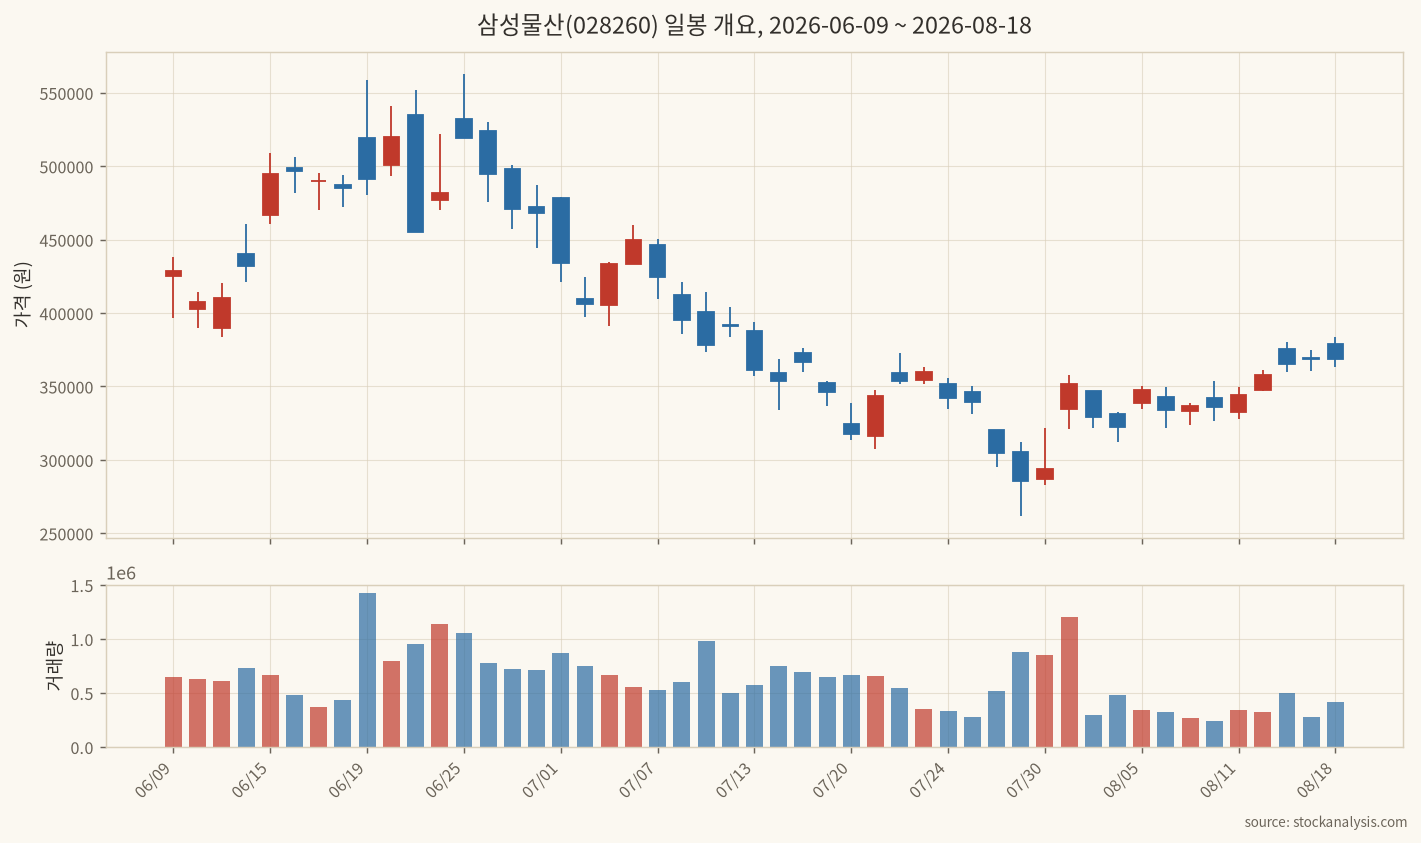
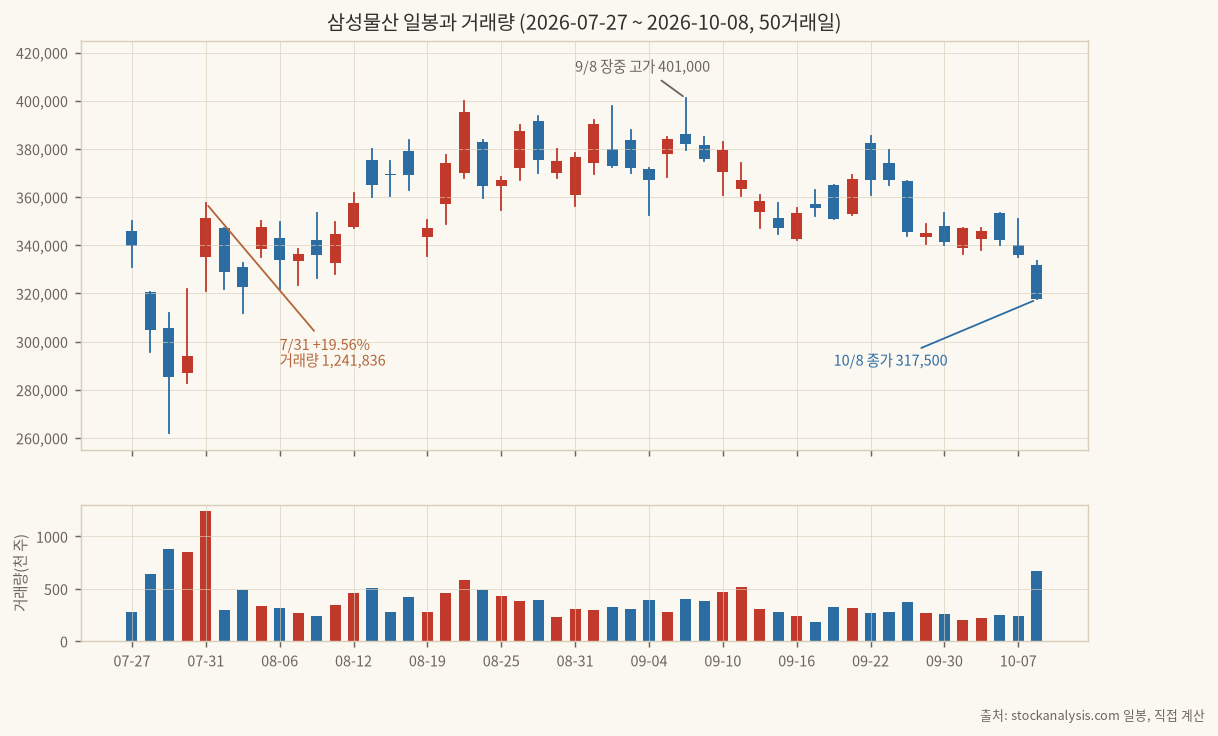
study(N53): publish 삼성물산 Money Flow Index

diff --git a/content/study/smct-money-flow-index.md b/content/study/smct-money-flow-index.md
@@ -1,0 +1,112 @@
+---
+title: "삼성물산, 50거래일 동안 MFI(14)는 80과 20 어디도 찍지 못했다: 머니 플로 인덱스 (Money Flow Index: Samsung C&T, MFI(14) Never Reached 80 or 20 in 50 Trading Days)"
+description: "삼성물산 50거래일 일봉으로 머니 플로 인덱스(MFI) 14일 값을 직접 계산하고 맞은 신호와 빗나간 신호를 전수 비교했다. We computed MFI(14) for Samsung C&T and listed every hit and miss."
+date: 2026-10-08T09:00:00+09:00
+draft: false
+markets: ["stock"]
+tags: ["지표스터디", "기술적지표", "코스피", "자동매매", "지주", "삼성물산"]
+summary: "MFI(14)의 유효값 36개는 20.59에서 69.84 사이에 머물렀고, 고전적 과매수·과매도선 80과 20은 한 번도 울리지 않았다."
+---
+
+머니 플로 인덱스(MFI)는 가격만 보는 지표가 아니다. 그날의 대표가격에 거래량을 곱해 돈의 흐름을 만들고, 오른 날의 흐름과 내린 날의 흐름을 14일씩 모아 0에서 100 사이 숫자로 바꾼다. 흔히 거래량을 얹은 RSI라고 부른다. 100에 가까우면 최근 14일 동안 오른 날에 돈이 몰렸다는 뜻이고, 0에 가까우면 내린 날에 몰렸다는 뜻이다.
+
+RSI는 오른 폭과 내린 폭만 센다. 7월 31일의 19.56% 상승은 거래량 1,241,836주를 동반했지만 RSI 안에서는 거래량이 평범한 날과 같은 무게로 들어간다. MFI는 거래량이 큰 날을 그만큼 무겁게 센다. 같은 종목에서 두 지표가 다른 말을 한다면 그 차이는 거의 전부 거래량에서 나온다.
+
+삼성물산은 이 지표를 시험하기 좋은 구간을 지나왔다. 7월 31일에는 하루 19.56% 오르며 거래량 1,241,836주가 찍혔고, 8월 21일 종가 395,500원까지 올랐다가 10월 8일 317,500원으로 내려왔다. 거래량이 크게 튄 날이 앞쪽에 몰려 있어 자금흐름의 무게가 어느 쪽으로 기우는지 보기에 좋다. 다만 먼저 밝혀 둘 것이 있다. 이번에 받을 수 있었던 일봉은 50거래일이 전부였다. 14일 예열을 빼면 MFI(14)의 유효값은 36개다. 표본이 짧으니 아래 결론은 이 구간 한정으로 읽어야 한다.
+
+<div class="term">
+<div class="term-bar"><i></i><i></i><i></i><em>이 글의 데이터 범위</em></div>
+<pre><code><span class="w">종목</span>      삼성물산 (028260)
+<span class="w">구간</span>      2026-07-27 ~ 2026-10-08 (50거래일)
+<span class="w">출처</span>      stockanalysis.com 일봉
+<span class="c">--------------------------------------------------</span>
+<span class="w">종가 최고</span>  395,500원 (08-21)
+<span class="w">종가 최저</span>  285,500원 (07-29)
+<span class="w">장중 최고</span>  401,000원 (09-08)
+<span class="w">장중 최저</span>  262,000원 (07-29)
+<span class="w">마지막 종가</span> 317,500원 (10-08)
+<span class="w">고점 대비</span>  종가 기준 -19.72% (08-21 대비)</code></pre>
+</div>
+
+> 이 글은 지표를 직접 계산해 본 기록이며 투자 권유가 아니다.
+
+![삼성물산 일봉과 거래량](/img/study/smct-01-overview.png)
+
+## 계산식과 파라미터
+
+MFI는 네 단계로 계산한다. 번호는 계산 순서다.
+
+<div class="term">
+<div class="term-bar"><i></i><i></i><i></i><em>MFI 계산식</em></div>
+<pre><code><span class="w">1</span> 대표가격(t) = (고가 + 저가 + 종가) / 3
+<span class="w">2</span> 자금흐름(t) = 대표가격(t) x 거래량(t)
+<span class="w">3</span> 양의 흐름 = 최근 14일 중 대표가격이 전일보다 오른 날의 자금흐름 합
+<span class="c">   </span>음의 흐름 = 최근 14일 중 대표가격이 전일보다 내린 날의 자금흐름 합
+<span class="w">4</span> MFI = 100 - 100 / (1 + 양의 흐름 / 음의 흐름)</code></pre>
+</div>
+
+파라미터는 14일로 잡았다. 이 지표를 처음 제안한 사람들이 쓴 기본값이고, 대부분의 차트 프로그램이 같은 값을 쓰기 때문에 비교하기 쉽다. 50거래일 표본에서는 이 선택이 꽤 비싸다. 14일이 예열에 들어가 첫 값이 8월 14일에야 나오고, 그날 값이 57.34다. 기준선은 흔히 쓰는 80과 20, 그리고 조금 느슨한 70과 30을 같이 걸었다. 이 지표는 14일 창이 하루씩 밀리면서 오래된 날이 빠질 때마다 값이 출렁인다. 특히 거래량이 큰 날이 창에서 나가는 순간이 중요한데, 뒤에서 실제 사례를 본다.
+
+종가가 전일보다 오른 날은 50거래일 중 20일, 내린 날은 27일이었고 같은 날이 2일(8월 18일, 9월 23일) 있었다. 내린 날이 더 많은 구간이라 MFI가 50 아래에 머문 날이 길 수밖에 없다. 실제로 유효값 36개 중 24개가 50 미만이었다. 평균은 44.36이다.
+
+## 실측: 값은 어디까지 갔나
+
+![MFI(14)와 종가](/img/study/smct-02-mfi14.png)
+
+최고값은 8월 19일의 69.84, 최저값은 9월 15일의 20.59다. 70을 넘은 날도 없고 20을 밑돈 날도 없다. 고전적인 80 이상 과매수, 20 이하 과매도 규칙을 그대로 쓰면 이 구간에서 신호는 한 번도 나오지 않는다. 이 종목이 이 구간에서 극단까지 가지 않았을 뿐이다. 그래도 9월 15일의 20.59는 선에서 불과 0.59 모자랐다.
+
+최고값이 나온 날은 더 이상하다. 8월 19일은 종가가 5.96% 떨어진 날인데 MFI는 65.10에서 69.84로 올랐다. 가격은 빠졌는데 지표가 올랐다. 원인은 14일 창에서 7월 29일이 빠져나간 것이다. 그날은 -6.39%에 거래량 880,125주의 대량 하락일이었고, 창에서 나가자 음의 흐름이 한꺼번에 줄었다. MFI는 최근 14일 합계의 비율이라서 하루 하루의 힘과는 따로 움직일 수 있다.
+
+재료를 직접 보면 이유가 보인다. 9월 15일 기준 14일 음의 흐름은 약 1.45조 원, 양의 흐름은 약 0.38조 원으로 음의 흐름이 3.86배였다. 그 값이 MFI 20.59다. 흐름은 한쪽으로 크게 쏠렸지만 그 쏠림이 20선을 뚫을 만큼 극단은 아니었다.
+
+![양의 흐름과 음의 흐름](/img/study/smct-03-flow.png)
+
+## 신호를 전수 나열한다
+
+14일 기준으로 30선을 아래에서 위로 올라선 경우와 50선을 위에서 아래로 내려선 경우를 모두 적는다. 20, 70, 80은 신호가 없었다. 이후 수익률은 신호일 종가 대비 3거래일, 5거래일 뒤 종가 기준이다.
+
+<div class="term">
+<div class="term-bar"><i></i><i></i><i></i><em>MFI(14) 신호 전수</em></div>
+<pre><code><span class="w">신호일  조건        MFI    종가      3일후    5일후</span>
+<span class="c">--------------------------------------------------</span>
+09-02   50 하향    49.68  373,000   <span class="r">+2.95%</span>   <span class="r">+0.80%</span>
+09-17   30 상향    30.17  355,500   <span class="r">+3.23%</span>   <span class="b">-2.81%</span>
+10-02   30 상향    36.66  346,000   <span class="b">-8.24%</span>   미도래</code></pre>
+</div>
+
+9월 2일 50선 하향은 약세 신호다. 그 뒤 3거래일 종가는 384,000원으로 오히려 2.95% 올랐다. 틀렸다고 해야 한다. 5거래일 뒤에도 +0.80%였으니 약세 신호로 매도했다면 손해였다. 다만 9월 2일은 8월 21일 고점 이후의 긴 조정 한가운데이고, 종가 390,500원이던 9월 1일 대비로는 이후 9월 15일 347,000원까지 11.14% 밀렸다. 신호 하루를 늦게 보면 맞고 하루 빨리 보면 틀리는 구간이다.
+
+9월 17일 30선 상향은 반등 신호다. 3거래일 뒤 +3.23%로 맞았다. 5거래일 뒤에는 -2.81%로 되돌렸다. 반등이 사흘짜리였다는 이야기다. 10월 2일 30선 상향은 3거래일 뒤 -8.24%로 크게 빗나갔다. 10월 8일 하루에만 5.51% 내렸고 그날 거래량 673,749주는 8월 3일 이후 가장 많았다. 5거래일 뒤 값은 아직 없다.
+
+## 맞은 것은 다이버전스 하나
+
+신호선 교차보다 나은 읽을거리는 가격과 MFI의 어긋남이었다. 8월 21일 종가 395,500원에서 MFI는 65.23이었는데, 9월 1일 종가 390,500원에서는 56.71이었다. 가격은 거의 고점인데 돈의 힘은 줄었다. 이후 가격은 9월 15일 347,000원까지 11.14% 내렸다. 이 약세 다이버전스는 이 구간에서 가장 깨끗하게 맞은 경고였다.
+
+반대편 신호는 현재 진행 중이다. 10월 8일 종가 317,500원은 9월 15일 종가 347,000원보다 8.50% 낮다. 그런데 MFI는 9월 15일 20.59에서 10월 8일 43.07로 높다. 가격은 저점을 낮췄고 MFI는 저점을 높였으니 강세 다이버전스 모양이다. 이 신호가 맞는지는 아직 모른다. 같은 모양이 10월 2일 30선 상향 직후 -8.24%로 꺾인 전례가 바로 옆에 있다.
+
+## 파라미터를 바꾸면
+
+![기간 민감도](/img/study/smct-04-sensitivity.png)
+
+10일로 줄이면 유효값이 40개로 늘고 범위는 19.18에서 79.38로 넓어진다. 9월 4일 19.52와 9월 15일 19.18에서 20 아래로 내려갔다. 20선 상향 신호는 9월 7일(종가 384,000원)과 9월 16일(종가 353,500원) 두 번 나왔다. 9월 7일 신호는 5거래일 뒤 -6.64%로 틀렸고, 9월 16일 신호는 5거래일 뒤 +3.82%로 맞았다. 같은 지표인데 기간 하나로 신호 두 개 중 하나가 틀린다.
+
+20일로 늘리면 유효값은 30개이고 범위는 26.02에서 64.24다. 30선 상향이 9월 21일 한 번(31.25, 종가 367,500원) 나왔는데 5거래일 뒤 -7.07%였다. 50선 하향은 9월 10일(44.20, 종가 379,500원)에 나왔고 5거래일 뒤 -6.32%로 맞았다. 20일 쪽이 한 번 맞고 한 번 틀렸다. 세 기간 모두 8월 하순 이후 하락 국면이라는 큰 그림은 같지만, 매매 타이밍은 기간마다 며칠씩 어긋난다.
+
+## 봇 게이트에 넣을 것인가
+
+단독 진입 조건으로는 넣지 않는다. 이 구간에서 14일 기준 신호는 세 개뿐이었고, 5거래일 기준으로 깨끗하게 맞은 것은 하나도 없었다. 표본이 이렇게 작으면 승률을 말할 수 없다. 넣는다면 보조 필터다. 가격이 고점을 높이는 중에 MFI가 낮아지는 경우를 경고로만 쓰고, 청산이나 진입 결정은 다른 근거가 있을 때만 한다.
+
+## 남기는 것
+
+가장 쓸 만했던 것은 가격과의 어긋남이다. 20이나 80 같은 절대선은 이 구간에서 한 번도 울리지 않았으니 비교 대상조차 못 됐다. 그래서 선 하나만 믿는 봇을 만들었다면 이 두 달은 아무 신호 없이 지나갔을 것이다.
+
+또 하나는 표본 길이다. 50거래일은 14일 지표를 시험하기에 모자란다. 다음에 같은 종목을 다시 쓸 때는 120거래일 이상을 받아 같은 규칙을 돌려 봐야 한다. 숙제가 하나 더 있다. 같은 일봉에 RSI(14)를 나란히 놓고 두 지표가 갈라지는 날을 세어 보는 일이다. 갈라지는 날이 거래량이 몰린 7월 말 구간에 모여 있다면 위의 추정이 맞는 것이고, 아니라면 다시 생각해야 한다. 이번 글에서는 거기까지 계산하지 않았다.
+
+지금의 강세 다이버전스가 어느 쪽으로 풀릴지는 10월 중순 일봉이 쌓여야 확인된다. 이 글의 수치는 전부 위 일봉으로 계산한 값이고, 투자 판단과 그 결과는 읽는 사람의 몫이다.
+
+## 약어 풀이
+
+\* 이 글에 나온 영어 약어를 풀어 둔다.
+
+- **MFI** (Money Flow Index): 대표가격과 거래량으로 만든 0~100 범위의 자금흐름 지표.
+- **RSI** (Relative Strength Index): 가격의 상승·하락 폭만으로 계산하는 0~100 범위의 모멘텀 지표. 거래량은 쓰지 않는다.
